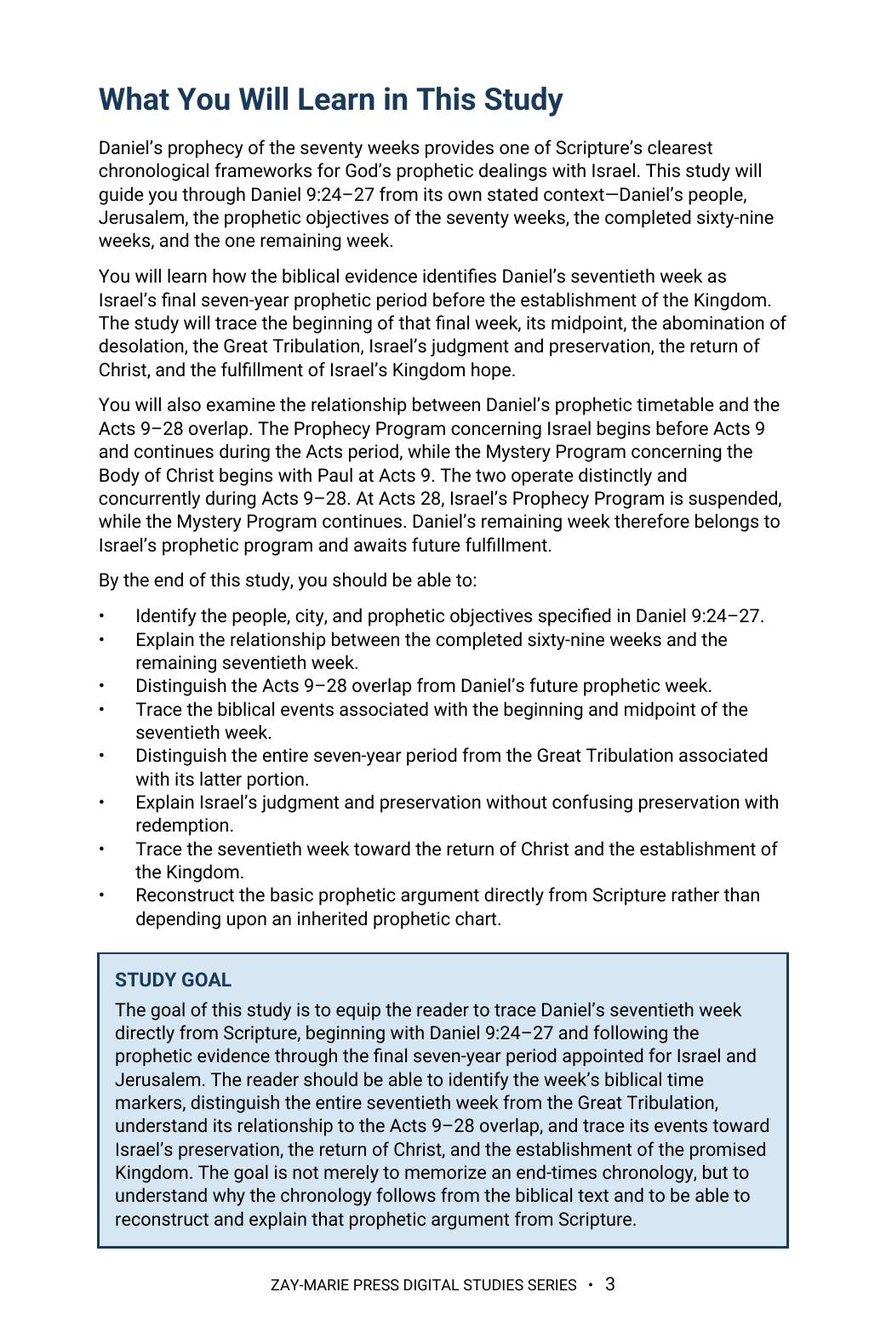
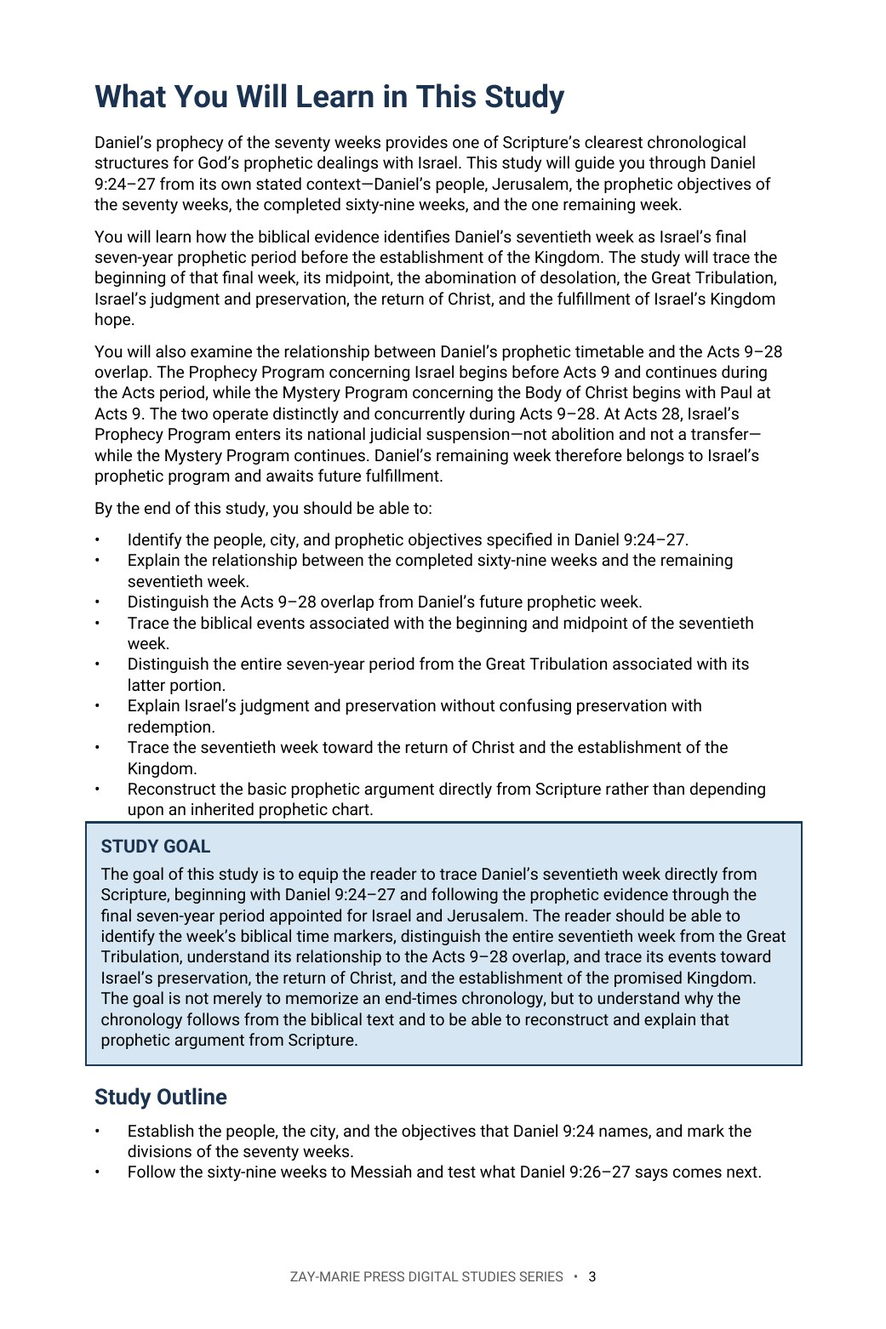
Study 10: rebuilt DOCX on Study 52 geometry with doctrinal upgrade (20 pp); page count, previews, headings, trackers
Claude-Session: https://claude.ai/code/session_01KcENxFzE91mCRyTPWhcwnE

diff --git a/study-10-daniels-seventieth-week.html b/study-10-daniels-seventieth-week.html
@@ -10,13 +10,13 @@
 .study-distinction{max-width:920px;margin-top:28px;margin-bottom:28px;padding:26px 28px;background:#fff;border:1px solid #d8d1bf;border-left:4px solid #b8871c}.study-distinction h3{margin:0 0 10px;color:#143823}.study-distinction p{margin:0 0 14px;line-height:1.62}.study-distinction p:last-child{margin-bottom:0}.study-distinction a{font-family:Arial,sans-serif;font-weight:700;color:#176b3a;text-decoration:none}</style></head>
 <body class="study-detail-page"><header class="site-header"><div class="wrap nav"><a aria-label="Zay-Marie Press home" class="logo" href="index.html"><img alt="Zay-Marie Press" height="238" src="assets/zay-marie-press-logo-hq.png" width="420"/></a><button aria-controls="primary-nav" aria-expanded="false" class="menu-toggle" type="button">MENU</button><nav aria-label="Primary navigation" class="primary-nav" id="primary-nav"><a href="index.html">HOME</a><a href="books.html">BOOKS</a><a href="series.html">SERIES</a><a class="active" aria-current="page" href="digital-studies.html">DIGITAL STUDIES</a><a href="biblical-hermeneutics-course.html">COURSE</a><a href="about.html">ABOUT</a><a href="resources.html">RESOURCES</a><a href="contact.html">CONTACT</a></nav></div></header><main>
 <section class="detail-hero"><div class="wrap detail-hero-grid"><div class="detail-cover"><img src="assets/study-10-cover.jpg" alt="Daniel’s Seventieth Week — Study 10 cover"/></div><div><div class="eyebrow">STUDY 10 · DIGITAL STUDY</div><h1>Daniel’s Seventieth Week</h1><p class="detail-subtitle">Israel’s Final Prophetic Week, the Great Tribulation, and the Coming Kingdom</p><p class="detail-kicker">A Biblical Examination of Daniel 9, Israel’s Prophetic Timetable, the Acts Overlap, Judgment, Preservation, Messiah’s Appearing, and Kingdom Fulfillment</p><p class="detail-copy">Daniel’s seventy weeks are determined upon Daniel’s people, Israel, and Daniel’s holy city, Jerusalem. This study begins with Daniel 9:24–27, follows the completed sixty-nine weeks, and establishes why one final seven-year week remains.</p><p class="detail-copy">It then traces the week’s beginning, midpoint, Great Tribulation, Israel’s judgment and preservation, the return of Christ, and the promised earthly Kingdom—while keeping Daniel’s prophetic timetable distinct from the Mystery revealed through Paul.</p><div class="detail-buyline"><span class="detail-price">$5.99</span><span class="detail-format">Digital PDF</span><span class="detail-button pending" aria-disabled="true">Get the Study</span></div></div></div></section>
-<section class="detail-section"><div class="wrap"><div class="eyebrow">ABOUT THIS STUDY</div><h2>Why Does Daniel’s Seventieth Week Matter?</h2><p class="lead">Daniel 9 gives Scripture’s controlling prophetic framework for Israel and Jerusalem. Its remaining seventieth week is not exhausted by the destruction of Jerusalem in AD 70, nor is it transferred to the Body of Christ. The prophecy awaits its future fulfillment within Israel’s Prophecy Program.</p><p class="lead">During Acts 9–28, Prophecy and Mystery operate distinctly and concurrently. At Acts 28, Israel’s Prophecy Program is suspended, not cancelled. Daniel’s remaining week therefore remains part of Israel’s future prophetic purpose and moves toward Messiah’s appearing and Kingdom fulfillment.</p><p class="lead">This is not a study of whether the Body of Christ belongs inside the coming Tribulation, which Study 3 asks directly, nor of the wider Day of the Lord that Tribulation sits within, which Study 7 traces from the Prophets. Its task is narrower: to establish from Daniel 9 itself whose people and city the seventieth week concerns, and to show that its remaining week awaits Israel’s own future fulfillment rather than the Body’s.</p><div class="study-distinction"><h3>How These Studies Relate</h3><p>Study 10 reads Daniel’s seventieth week in relation to Daniel’s people, city, and prophetic timetable.</p><p><a href="study-03-the-body-of-christ-and-the-tribulation.html">Study 3 — The Body of Christ and the Tribulation</a> Test whether the Body of Christ should be placed in the Tribulation that readers associate with this period; the answer depends on keeping Daniel’s stated audience in view.</p><p><a href="study-07-the-day-of-the-lord.html">Study 7 — The Day of the Lord</a> Situate the period’s judgments within the wider prophetic Day of the Lord and its movement toward restoration, without flattening the two studies into the same question.</p><p class="connection-guide-link"><a href="study-connections.html#study-10">Explore the full connection guide for Study 10 →</a></p></div></div></section>
-<section class="detail-section soft"><div class="wrap"><div class="eyebrow">WHAT YOU’LL STUDY</div><h2>Follow Daniel’s Prophetic Framework</h2><div class="study-points"><div class="study-point"><h3>Daniel’s People, Holy City, and Prophetic Setting</h3><p>Begin where Daniel begins: Israel, Jerusalem, and the objectives God determined for them.</p></div><div class="study-point"><h3>The Seventy-Week Framework</h3><p>Establish the completed sixty-nine weeks and the one remaining seven-year week.</p></div><div class="study-point"><h3>The Unfulfilled Week and the Acts Overlap</h3><p>Keep Daniel’s future week distinct while Prophecy and Mystery operate concurrently in Acts 9–28.</p></div><div class="study-point"><h3>The Week Begins and Reaches Its Midpoint</h3><p>Follow Daniel 9:27’s explicit markers for the covenant, sacrifice, offering, and midpoint.</p></div><div class="study-point"><h3>The Great Tribulation: The Final Half</h3><p>Distinguish the complete seven-year week from the latter period Jesus associates with the abomination.</p></div><div class="study-point"><h3>Israel, Preservation, and the Coming King</h3><p>Trace judgment, preservation, Messiah’s appearing, and the earthly Kingdom promised to Israel.</p></div></div></div></section>
+<section class="detail-section"><div class="wrap"><div class="eyebrow">ABOUT THIS STUDY</div><h2>Why Does Daniel’s Seventieth Week Matter?</h2><p class="lead">Daniel 9 gives Scripture’s controlling prophetic structure for Israel and Jerusalem. Its remaining seventieth week is not exhausted by the destruction of Jerusalem in AD 70, nor is it transferred to the Body of Christ. The prophecy awaits its future fulfillment within Israel’s Prophecy Program.</p><p class="lead">During Acts 9–28, Prophecy and Mystery operate distinctly and concurrently. At Acts 28, Israel’s Prophecy Program is suspended, not cancelled. Daniel’s remaining week therefore remains part of Israel’s future prophetic purpose and moves toward Messiah’s appearing and Kingdom fulfillment.</p><p class="lead">This is not a study of whether the Body of Christ belongs inside the coming Tribulation, which Study 3 asks directly, nor of the wider Day of the Lord that Tribulation sits within, which Study 7 traces from the Prophets. Its task is narrower: to establish from Daniel 9 itself whose people and city the seventieth week concerns, and to show that its remaining week awaits Israel’s own future fulfillment rather than the Body’s.</p><div class="study-distinction"><h3>How These Studies Relate</h3><p>Study 10 reads Daniel’s seventieth week in relation to Daniel’s people, city, and prophetic timetable.</p><p><a href="study-03-the-body-of-christ-and-the-tribulation.html">Study 3 — The Body of Christ and the Tribulation</a> Test whether the Body of Christ should be placed in the Tribulation that readers associate with this period; the answer depends on keeping Daniel’s stated audience in view.</p><p><a href="study-07-the-day-of-the-lord.html">Study 7 — The Day of the Lord</a> Situate the period’s judgments within the wider prophetic Day of the Lord and its movement toward restoration, without flattening the two studies into the same question.</p><p class="connection-guide-link"><a href="study-connections.html#study-10">Explore the full connection guide for Study 10 →</a></p></div></div></section>
+<section class="detail-section soft"><div class="wrap"><div class="eyebrow">WHAT YOU’LL STUDY</div><h2>Follow Daniel’s Prophetic Structure</h2><div class="study-points"><div class="study-point"><h3>Daniel’s People, Holy City, and Prophetic Setting</h3><p>Begin where Daniel begins: Israel, Jerusalem, and the objectives God determined for them.</p></div><div class="study-point"><h3>The Seventy-Week Structure</h3><p>Establish the completed sixty-nine weeks and the one remaining seven-year week.</p></div><div class="study-point"><h3>The Unfulfilled Week and the Acts Overlap</h3><p>Keep Daniel’s future week distinct while Prophecy and Mystery operate concurrently in Acts 9–28.</p></div><div class="study-point"><h3>The Week Begins and Reaches Its Midpoint</h3><p>Follow Daniel 9:27’s explicit markers for the covenant, sacrifice, offering, and midpoint.</p></div><div class="study-point"><h3>The Great Tribulation: The Final Half</h3><p>Distinguish the complete seven-year week from the latter period Jesus associates with the abomination.</p></div><div class="study-point"><h3>Israel, Preservation, and the Coming King</h3><p>Trace judgment, preservation, Messiah’s appearing, and the earthly Kingdom promised to Israel.</p></div></div></div></section>
 <section class="detail-section cream"><div class="wrap"><div class="eyebrow">KEY SCRIPTURES</div><h2>Examine the Passages for Yourself</h2><div class="scripture-grid"><div class="scripture-card"><h3>Daniel 9:24–27</h3><p>Establishes the people, city, objectives, divisions, and final-week markers of the prophecy.</p></div><div class="scripture-card"><h3>Acts 1:6</h3><p>Shows Israel’s Kingdom expectation still in view after the resurrection.</p></div><div class="scripture-card"><h3>Acts 9</h3><p>Marks the beginning of the Mystery revealed through Paul while Prophecy continues.</p></div><div class="scripture-card"><h3>Acts 28:25–28</h3><p>Marks the suspension of Israel’s Prophecy Program without cancellation of Israel’s promises.</p></div><div class="scripture-card"><h3>Matthew 24:15–31</h3><p>Connects the abomination with the Great Tribulation and Messiah’s appearing.</p></div><div class="scripture-card"><h3>2 Thessalonians 2:3–8</h3><p>Adds prophetic detail concerning the final ruler and his self-exaltation.</p></div><div class="scripture-card"><h3>Revelation 11–13</h3><p>Supplies time markers that illuminate the final half of the week.</p></div><div class="scripture-card"><h3>Zechariah 12–14</h3><p>Traces Israel’s future recognition of Messiah, deliverance, and Kingdom fulfillment.</p></div></div></div></section>
 <section class="detail-section"><div class="wrap"><div class="eyebrow">FROM THE STUDY</div><h2>God’s Prophetic Word Concerning Israel Will Stand</h2><div class="excerpt"><blockquote>“What God determined concerning Daniel’s people and Daniel’s holy city, He will fulfill.”</blockquote><p>The final week belongs to the prophetic purpose determined for Israel and Jerusalem. The Mystery revealed through Paul does not rewrite Daniel’s audience, absorb Israel’s promises, or place the Body of Christ inside Israel’s final week.</p></div></div></section>
 <section class="detail-section soft"><div class="wrap"><div class="eyebrow">A LOOK INSIDE</div><h2>Preview the Study Before You Purchase</h2><p class="preview-instruction">Click any page to enlarge it for reading.</p><div class="preview-grid"><div class="preview-card"><a class="preview-image-link" data-preview-lightbox href="assets/study-10-page-2.jpg"><img src="assets/study-10-page-2.jpg" alt="Study 10 interior preview — page 2, table of contents"/></a><div class="page-no">Page 2</div><h3>Table of Contents</h3><p>See the full structure of the study, from the introduction through the final synthesis.</p></div><div class="preview-card"><a class="preview-image-link" data-preview-lightbox href="assets/study-10-page-3.jpg"><img src="assets/study-10-page-3.jpg" alt="Study 10 interior preview — page 3, what you will learn"/></a><div class="page-no">Page 3</div><h3>What You Will Learn</h3><p>See the study’s goals, controls, and central question at a glance.</p></div><div class="preview-card"><a class="preview-image-link" data-preview-lightbox href="assets/study-10-page-4.jpg"><img src="assets/study-10-page-4.jpg" alt="Study 10 interior preview — page 4, Daniel’s people, holy city, and the prophetic setting"/></a><div class="page-no">Page 4</div><h3>Daniel’s People, Holy City, and the Prophetic Setting</h3><p>Begin where Daniel 9 begins: with a prophet reading the Word and praying for his people and city.</p></div></div></div></section>
-<section class="detail-section"><div class="wrap"><div class="eyebrow">WHAT’S INCLUDED</div><h2>A Focused Study Built for<br/>Understanding and Teaching</h2><div class="includes-grid"><div class="include-item"><h3>23-Page In-Depth Biblical Study</h3><p>A sustained, Scripture-first examination of Daniel’s final prophetic week.</p></div><div class="include-item"><h3>Seven Core Teaching Sections</h3><p>Progress from Daniel’s people and city to the final week, Messiah’s appearing, and Kingdom.</p></div><div class="include-item"><h3>Daniel 9 Framework Study</h3><p>Establish the seventy weeks, the sixty-nine completed weeks, and the one remaining week.</p></div><div class="include-item"><h3>Acts Overlap Control</h3><p>Keep Daniel’s future week within Israel’s Prophecy Program while Mystery operates distinctly in Acts.</p></div><div class="include-item"><h3>Ten Review Questions</h3><p>Test the study’s distinctions concerning Daniel 9, the week, Israel, and the Body.</p></div><div class="include-item"><h3>Teaching Outline</h3><p>A ready framework for explaining the final week without depending on an inherited chart.</p></div><div class="include-item"><h3>Guided Further Study</h3><p>Trace the key texts on the framework, midpoint, preservation, Messiah’s appearing, and Kingdom.</p></div><div class="include-item"><h3>Final Synthesis Exercise</h3><p>Build the entire argument from Scripture and distinguish explicit statements from broader synthesis.</p></div></div></div></section>
-<section class="detail-section cream"><div class="wrap"><div class="final-buy"><div><div class="eyebrow">STUDY 10 · DIGITAL STUDY</div><h2>Daniel’s Seventieth Week</h2><p>23-page digital PDF · For personal use</p></div><div class="final-offer"><div class="detail-price">$5.99</div><span class="detail-button pending" aria-disabled="true">Get the Study</span></div></div><a class="back-link" href="digital-studies.html">← Back to All Digital Studies</a></div></section><section class="study-method-course-bridge"><div class="wrap"><div class="study-method-course-panel"><div><div class="eyebrow">BUILD THE INTERPRETIVE METHOD</div><h2>Want More Than a Focused Study?</h2><p>Digital Studies examine particular biblical subjects and difficult passages. The 40-lesson Biblical Hermeneutics course teaches a complete, repeatable method for establishing meaning in context, determining proper assignment, and making responsible application.</p></div><a class="btn btn-primary" href="biblical-hermeneutics-course.html">BIBLICAL HERMENEUTICS COURSE</a></div></div></section></main>
+<section class="detail-section"><div class="wrap"><div class="eyebrow">WHAT’S INCLUDED</div><h2>A Focused Study Built for<br/>Understanding and Teaching</h2><div class="includes-grid"><div class="include-item"><h3>20-Page In-Depth Biblical Study</h3><p>A sustained, Scripture-first examination of Daniel’s final prophetic week.</p></div><div class="include-item"><h3>Seven Core Teaching Sections</h3><p>Progress from Daniel’s people and city to the final week, Messiah’s appearing, and Kingdom.</p></div><div class="include-item"><h3>Daniel 9 Structure Study</h3><p>Establish the seventy weeks, the sixty-nine completed weeks, and the one remaining week.</p></div><div class="include-item"><h3>Acts Overlap Control</h3><p>Keep Daniel’s future week within Israel’s Prophecy Program while Mystery operates distinctly in Acts.</p></div><div class="include-item"><h3>Ten Review Questions</h3><p>Test the study’s distinctions concerning Daniel 9, the week, Israel, and the Body.</p></div><div class="include-item"><h3>Teaching Outline</h3><p>A ready outline for explaining the final week without depending on an inherited chart.</p></div><div class="include-item"><h3>Guided Further Study</h3><p>Trace the key texts on the structure, midpoint, preservation, Messiah’s appearing, and Kingdom.</p></div><div class="include-item"><h3>Final Synthesis Exercise</h3><p>Build the entire argument from Scripture and distinguish explicit statements from broader synthesis.</p></div></div></div></section>
+<section class="detail-section cream"><div class="wrap"><div class="final-buy"><div><div class="eyebrow">STUDY 10 · DIGITAL STUDY</div><h2>Daniel’s Seventieth Week</h2><p>20-page digital PDF · For personal use</p></div><div class="final-offer"><div class="detail-price">$5.99</div><span class="detail-button pending" aria-disabled="true">Get the Study</span></div></div><a class="back-link" href="digital-studies.html">← Back to All Digital Studies</a></div></section><section class="study-method-course-bridge"><div class="wrap"><div class="study-method-course-panel"><div><div class="eyebrow">BUILD THE INTERPRETIVE METHOD</div><h2>Want More Than a Focused Study?</h2><p>Digital Studies examine particular biblical subjects and difficult passages. The 40-lesson Biblical Hermeneutics course teaches a complete, repeatable method for establishing meaning in context, determining proper assignment, and making responsible application.</p></div><a class="btn btn-primary" href="biblical-hermeneutics-course.html">BIBLICAL HERMENEUTICS COURSE</a></div></div></section></main>
 <div class="preview-lightbox" id="preview-lightbox" role="dialog" aria-modal="true" aria-label="Enlarged study page preview"><button class="preview-lightbox-close" type="button" aria-label="Close enlarged preview">×</button><img src="" alt=""/><div class="preview-lightbox-hint">Scroll to read the full page · Press Esc or click outside the page to close</div></div>
 <footer class="site-footer"><div class="wrap footer-grid"><div class="footer-about"><h3>Zay-Marie Press</h3><p class="footer-tagline"><em>Where the Bible Means What It Says.</em></p><p>Zay-Marie Press is a Christian theological publisher dedicated to producing doctrinally precise, carefully structured biblical resources that equip pastors, teachers, and serious students with clarity, depth, and Scripture-anchored truth.</p><p><a href="https://zaymariepress.com">zaymariepress.com</a><br/><a href="mailto:info@zaymariepress.com">info@zaymariepress.com</a></p></div><div class="footer-column"><h3>Explore</h3><div class="footer-links-stacked"><a href="books.html">Books</a><br/><a href="series.html">Series</a><br/><a href="biblical-hermeneutics-course.html">Course</a><br/><a href="digital-studies.html">Digital Studies</a><br/><a href="resources.html">Resources</a><br/><a href="bible-book-summaries.html">Bible Book Summaries</a><br/><a href="doctrinal-packets.html">Doctrinal Packets</a><br/><a href="historical-drift.html">Historical Drift</a><br/><a href="about.html">About</a><br/><a href="contact.html">Contact</a></div></div><div class="footer-column"><h3>Reader Support</h3><div class="footer-links-stacked"><a href="reader-support.html#faq">FAQ</a><br/><a href="reader-support.html#shipping-returns">Shipping &amp; Returns</a><br/><a href="reader-support.html#digital-downloads">Digital Downloads</a><br/><a href="reader-support.html#contact-support">Contact Support</a></div></div><div class="footer-column"><h3>Acts Overlap</h3><p><strong>Acts Overlap Theology Series</strong></p><p><em>Two Distinct Streams. One Overlap.</em></p><p><a href="series.html">Series Overview</a></p></div></div><div class="wrap footer-bottom">© 2026 Zay-Marie Press. All rights reserved.</div></footer>
 <script src="site.js"></script><script>(function(){var box=document.getElementById("preview-lightbox"),img=box.querySelector("img"),close=box.querySelector(".preview-lightbox-close"),hint=box.querySelector(".preview-lightbox-hint"),hintTimer;function shut(){clearTimeout(hintTimer);box.classList.remove("open");hint.classList.remove("fade");document.body.style.overflow="";img.src=""}document.querySelectorAll("[data-preview-lightbox]").forEach(function(a){a.addEventListener("click",function(e){e.preventDefault();clearTimeout(hintTimer);img.src=a.getAttribute("href");img.alt=a.querySelector("img").alt;hint.classList.remove("fade");box.classList.add("open");document.body.style.overflow="hidden";box.scrollTop=0;hintTimer=setTimeout(function(){hint.classList.add("fade")},3000)})});close.addEventListener("click",shut);box.addEventListener("click",function(e){if(e.target===box)shut()});document.addEventListener("keydown",function(e){if(e.key==="Escape"&&box.classList.contains("open"))shut()})})();</script></body></html>

diff --git a/site.js b/site.js
@@ -62,7 +62,7 @@ const resourceModal=document.querySelector('#resource-modal'), resourceModalTitl
 if(resourceModal&&resourceModalTriggers.length){const closeResourceModal=()=>{resourceModal.hidden=true;document.body.classList.remove('resource-modal-open');lastResourceTrigger?.focus();};resourceModalTriggers.forEach(trigger=>trigger.addEventListener('click',()=>{lastResourceTrigger=trigger;if(resourceModalTitle)resourceModalTitle.textContent=trigger.dataset.title||'Resource';if(resourceModalDescription)resourceModalDescription.textContent=trigger.dataset.description||'';if(resourceModalLink){resourceModalLink.href=trigger.dataset.href||'#';resourceModalLink.textContent=trigger.dataset.linkText||'OPEN RESOURCE';}resourceModal.hidden=false;document.body.classList.add('resource-modal-open');resourceModalClose?.focus();}));resourceModalClose?.addEventListener('click',closeResourceModal);resourceModal.addEventListener('click',e=>{if(e.target===resourceModal)closeResourceModal();});document.addEventListener('keydown',e=>{if(e.key==='Escape'&&!resourceModal.hidden)closeResourceModal();});}
 
 /* Display the verified final-PDF page count at the primary purchase decision point. */
-const digitalStudyPageCounts={1:17,2:14,3:16,4:18,5:16,6:16,7:14,8:13,9:16,10:23,11:15,12:15,13:19,14:15,15:16,16:16,17:18,18:18,19:16,20:16,21:17,22:16,23:16,24:16,25:17,26:18,27:16,28:16,29:16,30:17,31:19,32:16,33:16,34:16,35:16,36:16,37:16,38:16,39:16,40:16,41:16,42:16,43:16,44:16,45:16,46:16,47:16,48:16,49:17,50:16,51:16,52:16,53:16,54:16,55:16,56:16,57:16,58:16,61:16,62:16,63:16,64:16,65:16,66:16,67:16,68:16,69:16,70:16,71:16};
+const digitalStudyPageCounts={1:17,2:14,3:16,4:18,5:16,6:16,7:14,8:13,9:16,10:20,11:15,12:15,13:19,14:15,15:16,16:16,17:18,18:18,19:16,20:16,21:17,22:16,23:16,24:16,25:17,26:18,27:16,28:16,29:16,30:17,31:19,32:16,33:16,34:16,35:16,36:16,37:16,38:16,39:16,40:16,41:16,42:16,43:16,44:16,45:16,46:16,47:16,48:16,49:17,50:16,51:16,52:16,53:16,54:16,55:16,56:16,57:16,58:16,61:16,62:16,63:16,64:16,65:16,66:16,67:16,68:16,69:16,70:16,71:16};
 const digitalStudyMatch=window.location.pathname.match(/\/study-(\d+)-/i);
 const digitalStudyFormat=document.querySelector('.detail-hero .detail-format');
 if(digitalStudyMatch&&digitalStudyFormat){const studyNumber=Number(digitalStudyMatch[1]),pageCount=digitalStudyPageCounts[studyNumber];if(pageCount)digitalStudyFormat.textContent=`Digital PDF · ${pageCount} Pages`;}

diff --git a/CLAUDE.md b/CLAUDE.md
@@ -20,7 +20,7 @@ These are kept in the repo at `controlling-documents/` and are the current versi
 - As of v1.47 (publisher directive, 2026-10-02), §6 adds the **Interior Page Geometry and Text Layout Standard**, written into this file in the same pass: every Digital Study, earlier studies included, is set on the later studies' page and layout, not only in Roboto at the same sizes. Page 483.846 × 725.754 pt (9677 × 14515 twips) for cover and interior; cover its own full-bleed section (360 twip margins, no footer); interior margins top 864, bottom 1224, left/right 1031, header 400, footer 475; body left-aligned and flush left with no first-line indent (9 pt black Roboto Regular, 6 pt after, 0 before, 1.08); bold only for run-in leads ("Read:", "Purpose:", "Bring Your Findings Together:") and short emphasis, never a whole paragraph; lists 0 pt after each item and 6 pt after the last, 1.08; callout boxes 7815 twips wide with −100 twip indent; TOC right tab with dot leaders at 7615 twips; only the TOC and What You Will Learn start new pages, later sections flow continuously, and the imprint never stands alone. An earlier study built on any other page size (Letter 612 × 792, 432 × 648) is rebuilt to this geometry when reopened or retrofitted, the page count is recounted and the website updated, and the Heading 1 14 pt / TOC-spacing exemptions for Studies 1–5 and 9 no longer apply to a reopened study. In every study check (Step 1) measure page size, margins, first-line indents, whole-paragraph bold, list spacing, callout width and the TOC tab against Study 52 and report differences. Study 1 is the first earlier study rebuilt to it (17 pages). Preview images are rendered at the page's own aspect (1041×1562 for this page), not stretched.
 **`controlling-documents/Digital_Studies_Relationship_Map_v1.39.md`** — records each study's distinct subject, its related studies, the eight priced six-study collections, the Paul's Missionary Journeys cross-reference map, and the five primary catalog categories (currently version 1.39, covers Studies 1–71; update it as new studies publish, bump the version number, rename the file to match, and log the change in its own version-history table — mirroring the Master Standard's `_vX.Y` filename convention). Check a proposed topic against it before recommending or writing a new study. (2026-09-28: the file was missing from this repo despite this note referencing it; replaced from the publisher's copy and bumped v1.15→v1.25 in the same pass. If this note ever again points to a version not present under `controlling-documents/`, ask the publisher for a copy rather than proceeding without the check.)
 - **`controlling-documents/Digital_Studies_Category_Standard_v1.1.md`** — FINAL and binding (publisher, 2026-10-01): the rules for the five primary catalog categories (Foundations, Israel & Prophecy, Body of Christ, Passages, Doctrinal Themes), the ordered decision procedure for new studies, the precedents, all 71 fixed assignments, and the cover-label form for each category. Read it before placing any card or cover label. Do not ask the publisher where a study belongs; apply the procedure and state the result. Only the publisher changes a ruling; then bump this Standard's version and filename, re-letter the cover, and update the Relationship Map.
-- **`controlling-documents/Doctrinal_Upgrade_Retrofit_Plan_v1.34.md`** — working tracker for retrofitting Studies 1–59 to the 2026-10-02 doctrinal upgrade (Framework/PAM v1.1, Master Standard v1.40, Rules 7–17): withdrawn-wording search keys, impact tiers, waves and the per-study method. Read it before continuing the retrofit in any session; update status, bump the version and rename the file as work proceeds.
+- **`controlling-documents/Doctrinal_Upgrade_Retrofit_Plan_v1.35.md`** — working tracker for retrofitting Studies 1–59 to the 2026-10-02 doctrinal upgrade (Framework/PAM v1.1, Master Standard v1.40, Rules 7–17): withdrawn-wording search keys, impact tiers, waves and the per-study method. Read it before continuing the retrofit in any session; update status, bump the version and rename the file as work proceeds.
 - **`controlling-documents/Doctrinal_Packet_Standard_v0.3.md`** — Doctrinal Packet Standard (DRAFT; §7 approved). Governs the separate Doctrinal Packets product strand (5-page interpretive PDFs per Bible book — a print-friendly cover as page 1 plus 4 content pages, $2.99, KJV, pilot: Genesis, live at `packet-genesis.html`, hub `doctrinal-packets.html`; site pages say "5 Pages", cover styles live in `packets.css`, Old Testament blue and New Testament soft pale green, hub listed in Bible order). **Preview rule (publisher directive, 2026-09-29, packets only):** previews show about one page's worth in two cropped views (top of page 1 through the anchor texts; the chart section) — never the exegesis, architecture, Mystery contrast, logic chain, outline, or closing. Master Standard §16/§17 still govern Digital Studies. Bump the version and rename the file as the Standard is finalized.
 - **`controlling-documents/Preview_Page_Spoiler_Retrofit_Audit_v1.4.md`** — working tracker for the Studies 1–60 preview-page conclusion-spoiler retrofit (see the section below). Read it before continuing that audit in any session; update its status fields and changelog, bump the version, and rename the file to match as the audit proceeds — same `_vX.Y` convention as the other controlling documents. As of v1.1, the website-side half was DONE: all 60 studies' "What You'll Study" text was judged against the rule (methodology documented in the file) and 22 points across 11 studies were rewritten and pushed; an unrelated Study 22 content bug (Study 21's content had leaked into it) was also found and fixed. As of v1.2, the publisher supplied Studies 1–60's interior production PDFs and the interior-PDF half was also surveyed (read-only): 10 studies (37, 41, 45, 47, 48, 49, 51, 52, 53, 54) were found to have at least one interior "What You Will Learn" violation, 50 studies were confirmed compliant, and the orphaned `assets/study-45-sanctification-under-grace.docx` (removed from the repo per the publisher in v1.0) was confirmed word-for-word identical to Study 45's actual production interior PDF content. As of v1.3, the publisher supplied editable DOCX sources for all 10 violating studies; all 15 violating points were rewritten and approved, delivered as corrected final PDFs, and — along the way — a second defect was found and fixed (Studies 47 and 48's source DOCX still had an unintegrated cover placeholder despite both being long-published live with real covers; fixed by inserting the existing approved cover art). The website's "What You Will Learn" preview image (`study-NN-page-3.jpg`) was regenerated from the corrected content for all 10 studies and pushed to `main` (commit `cea1859`), verified against a fresh clone. **The website side of this audit is now fully compliant for all 60 studies.** Outstanding: the publisher's purchasable interior PDF files themselves have corrected versions delivered, but distribution to existing purchasers was decided by the publisher on 2026-09-29: silent swap of the files behind the existing downloads, no reissue notice (recorded in the v1.4 changelog entry; the product files are not in this repo).
 

diff --git a/controlling-documents/Doctrinal_Upgrade_Retrofit_Plan_v1.35.md b/controlling-documents/Doctrinal_Upgrade_Retrofit_Plan_v1.35.md
@@ -46,6 +46,7 @@ Working tracker for correcting published studies to the Framework/PAM v1.1, Mast
 | 3 The Body of Christ and the Tribulation | Tier 2 read (Acts 28, overlap, Revelation, anchors) | DONE 2026-10-02 (v1.32): interior corrected and rebuilt to the Study 52 page geometry (16 pp, Roboto Regular/Bold/Italic; TOC renumbered). Acts 28 'national judicial suspension, not abolition and not a transfer' in 7 places; standing overlap sentence added; Body-absent-from-Revelation and Gentiles-in-prophetic-scenes lines added; 4 'framework' wordings removed; anchors for Thessalonians and Philippians 3:20; running header removed; standard copyright text. Cover title re-lettered at 70% (TRIBULATION a further 25%) at the publisher's direction. Website: page counts 16, previews 2, 3 and 10 (comparison table moved from page 11), cover replaced, 3 'framework' phrases removed; site.js 3:16. |
 | 7 The Day of the Lord | Tier 2 read (Day-of-the-Lord boundary, Revelation, anchors) | DONE 2026-10-02 (v1.33): interior corrected and rebuilt to the Study 52 page geometry (14 pp, Roboto Regular/Bold/Italic). Day-of-the-Lord reading already conformed (Body not in the Day; THEY/YOU); added the Revelation/Daniel and Gentiles-in-the-Day lines, the Thessalonians reader-facing anchor; 8 'framework' uses reworded; lowercase 'lord/christ' and stray capitals fixed; imprint set to the standard text; cover section made full-bleed with the approved ISRAEL & PROPHECY cover. Website: site.js 7:14, '14-Page', 'ready outline', preview 6->5 at 1041x1562. |
 | 8 The Day of Christ | Tier 2 read (Day-of-the-Lord boundary, anchors, framework wording) | DONE 2026-10-02 (v1.34): interior corrected and rebuilt to the Study 52 page geometry (13 pp, Roboto Regular/Bold/Italic). Day of Christ / Day of the Lord reading already conformed; added the Body-not-in-the-Day line (section 13) and the Philippians/Thessalonians/Colossians reader-facing anchor; 4 'framework' uses reworded; lowercase 'christ/pauline' and stray capitals fixed; imprint to the standard text. Titus 2:13 left unanchored (no ruling). Website: site.js 8:13, '13-Page', 'ready outline', previews 2/3/5 at 1041x1562. |
+| 10 Daniel's Seventieth Week | Tier 2 read (Acts 28, overlap, remnant, Revelation, Rule 18, Romans 11 passing cite, anchors) | DONE 2026-10-02 (v1.35): no DOCX existed, so a DOCX was rebuilt from the publisher's Roboto PDF (text verified word for word; only the listed edits differ) on the Study 52 page geometry (20 pp). Acts 28 standing wording in five places; overlap and Rule 17 sentences (section 3); Body-absent-from-the-week line; Revelation line; 2 Thessalonians anchor; Rule 18 short form (Investigation 2); Romans 11 four-point note + triad (Investigation 5); 'framework' reworded (section 2 now 'Structure'); imprint standard; approved ISRAEL & PROPHECY cover used (PDF carried an older cover). The page-6 diagram image is unchanged at the publisher's direction (title 'IN THE ACTS OVERLAP FRAMEWORK', 'PROPHECY SUSPENDED' marker, caption). Website: site.js 10:20, '20-Page', 'ready outline', previews 2/3/4 at 1041x1562. Title (Introduction) TOC entry left as published. |
 | 39 The Church's Relationship to Israel's Scriptures | Abrahamic/covenant participation + overlap sentence | DONE 2026-10-02 (v1.23): interior corrected (16 pp, Roboto). Withdrawn overlap sentence replaced with the standing sentence and Acts 28 'not abolition and not a transfer' added (§9); 'Gentiles participate spiritually' replaced by the standing Galatians 3 sentence (§8) and 'whole/every covenant term' partial-transfer wording tightened (§8, Study Summary, Key Distinctions table); Romans 11 four-point list and triad added (Introduction); 2 Timothy and Philippians anchors converted and a Colossians anchor added. Sections moved down: TOC updated (7 numbers); 16 pp. Website: previews 2, 3, 5 re-rendered at 1041x1565; site.js 39:16 unchanged |
 | 40 Who Is Abraham's Seed? | Gal 3 / Abrahamic participation (core) | DONE 2026-10-02 (v1.22): interior corrected (16 pp, Roboto). Withdrawn overlap sentence replaced with the standing sentence (Introduction); Romans 11 four-point list and triad added (Introduction); the 'Gentiles participate spiritually / Abrahamic heirship, benefit, inheritance, connection' family replaced with the standing Galatians 3 sentence and plain wording (§6, §8, §10, Study Summary, Key Distinctions table); Romans 4 'participate in promise' and Teaching Outline 'share that benefit' reworded. Sections moved down: TOC updated (Conclusion p10, Scripture-Tracing p11, Guided Further Study p16); 16 pp. Website: preview pages 2, 3 and 4 re-rendered; site.js 40:16 unchanged |
 | 52 Sonship and Adoption | Gal 3 / Abrahamic participation | DONE 2026-10-02 (v1.21): interior corrected (16 pp, Roboto). Withdrawn Galatians 3:26–29 'Gentiles participate spiritually / ethnic distinction is kept' wording replaced by the standing Galatians 3 sentence (3.4) and the 'participation in the seed is spiritual' line reworded; Study 40 pointer parenthetical removed; nine 'The Framework does not assign…' anchors and the Hebrews sentence converted to the reader-facing forms; Romans 11 four-point list and triad added (Group 3). Shorter anchors moved sections up a page, so TOC numbers updated (§5 p9, §6 p11, Conclusion p12, etc.); total still 16 pp. Website: page-2 (TOC) preview re-rendered; pages 3 and 5 unchanged |
@@ -114,3 +115,4 @@ Working tracker for correcting published studies to the Framework/PAM v1.1, Mast
 
 - v1.33 (2026-10-02): Study 7 retrofit complete (see row). Next: Wave 4 remainder (8, 10, 23, 26, 29, 31, 32, 33): DOCX needed from the publisher for each.
 - v1.34 (2026-10-02): Study 8 retrofit complete (see row). Next: Wave 4 remainder (10, 23, 26, 29, 31, 32, 33): DOCX needed from the publisher for each. Open: ask whether Titus joins the anchored-letters list.
+- v1.35 (2026-10-02): Study 10 retrofit complete (see row). Next: Wave 4 remainder (23, 26, 29, 31, 32, 33): DOCX needed from the publisher for each. Open: Titus anchor ruling; Study 10 DOCX now exists (first editable source).

diff --git a/controlling-documents/Digital_Studies_PAM_Audit_v1.129.md b/controlling-documents/Digital_Studies_PAM_Audit_v1.129.md
@@ -358,3 +358,4 @@ Study 15 PDF not yet supplied. Typography: none of Studies 2, 3, 6, 8 is in EB G
 - v1.126 (2026-10-02): Study 7 retrofitted: Revelation/Daniel and Gentiles-in-the-Day lines, Thessalonians anchor, 'framework' wording removed; rebuilt to the standard page geometry (14 pp); approved cover swapped in.
 - v1.127 (2026-10-02): Study 7 footer corrected to the standard text "ZAY-MARIE PRESS DIGITAL STUDIES SERIES • page" (the build had kept the source title footer); previews 2, 3, 5 re-rendered. Wave 5: Study 3 footer is gray 5A5A5A at 7.5 pt where Study 52 is 333333 at 8.5 pt; recheck Studies 1, 3, 7.
 - v1.128 (2026-10-02): Study 8 retrofitted: Body-not-in-the-Day line, Philippians/Thessalonians/Colossians anchor, 'framework' wording removed; rebuilt to the standard page geometry (13 pp); Titus 2:13 unanchored pending ruling.
+- v1.129 (2026-10-02): Study 10 retrofitted (DOCX rebuilt from the publisher's PDF; standing Acts 28/overlap/Rule 17/Daniel/Revelation/Rule 18/Romans 11 wording, anchor, 'framework' removed; 20 pp on the standard geometry); diagram image left unchanged by the publisher.
